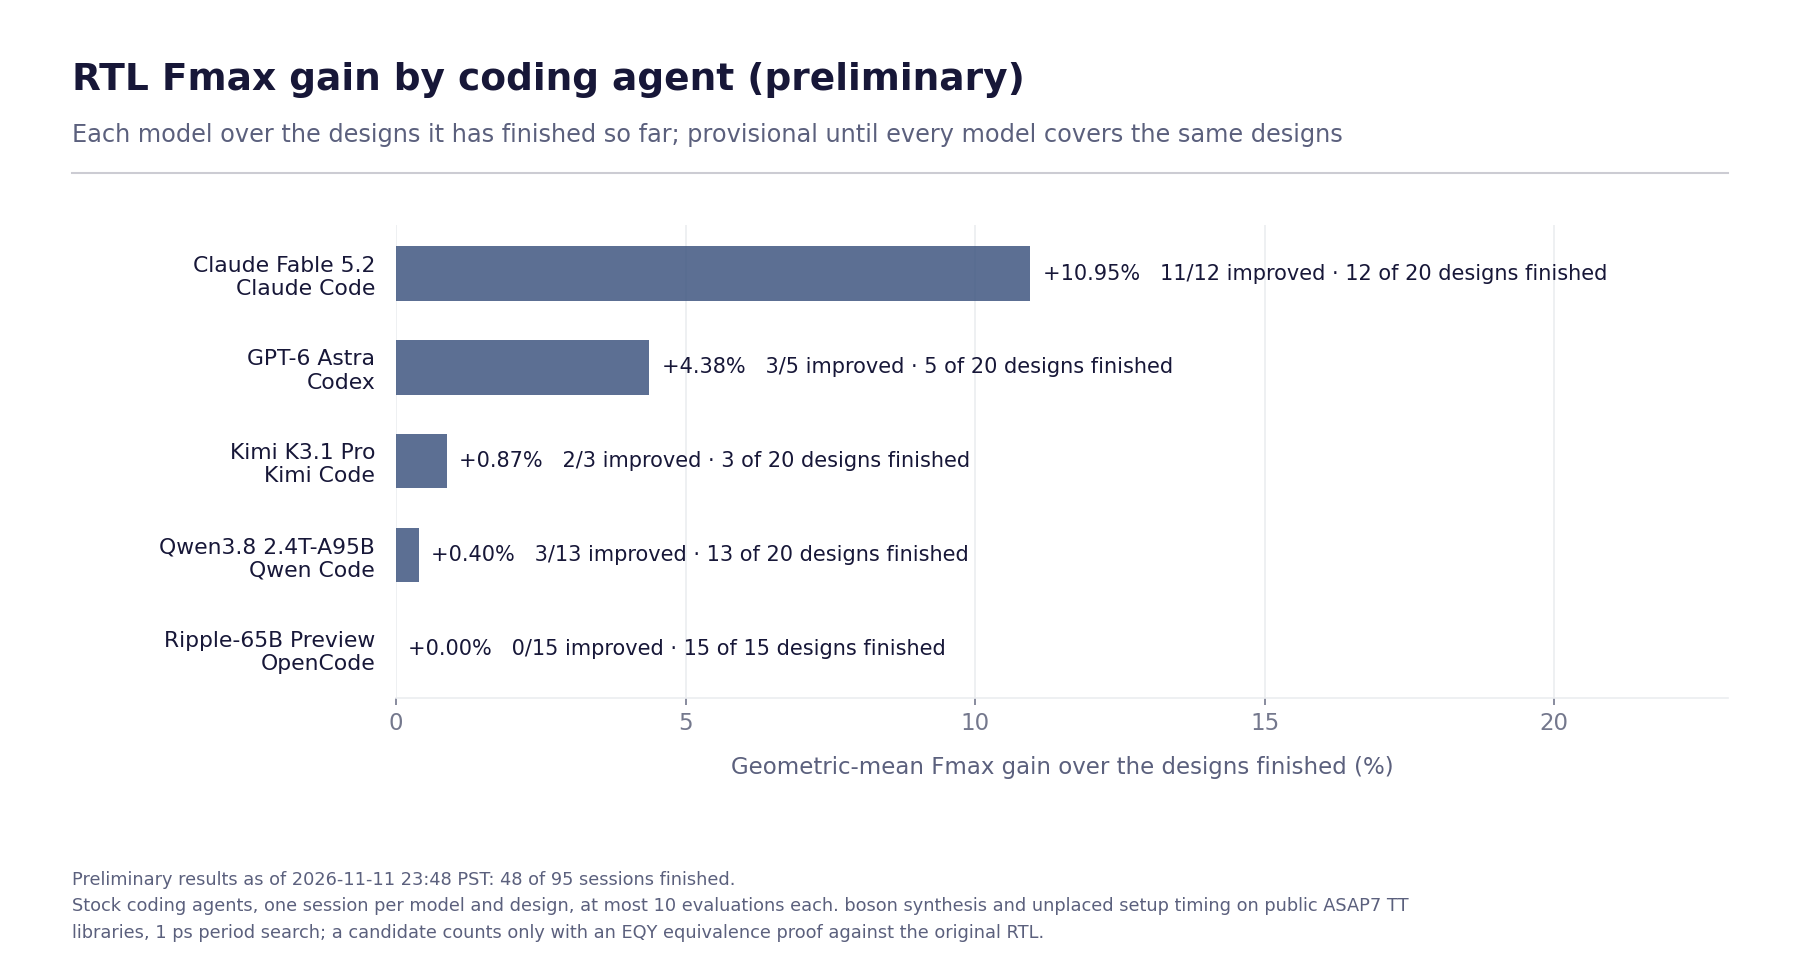
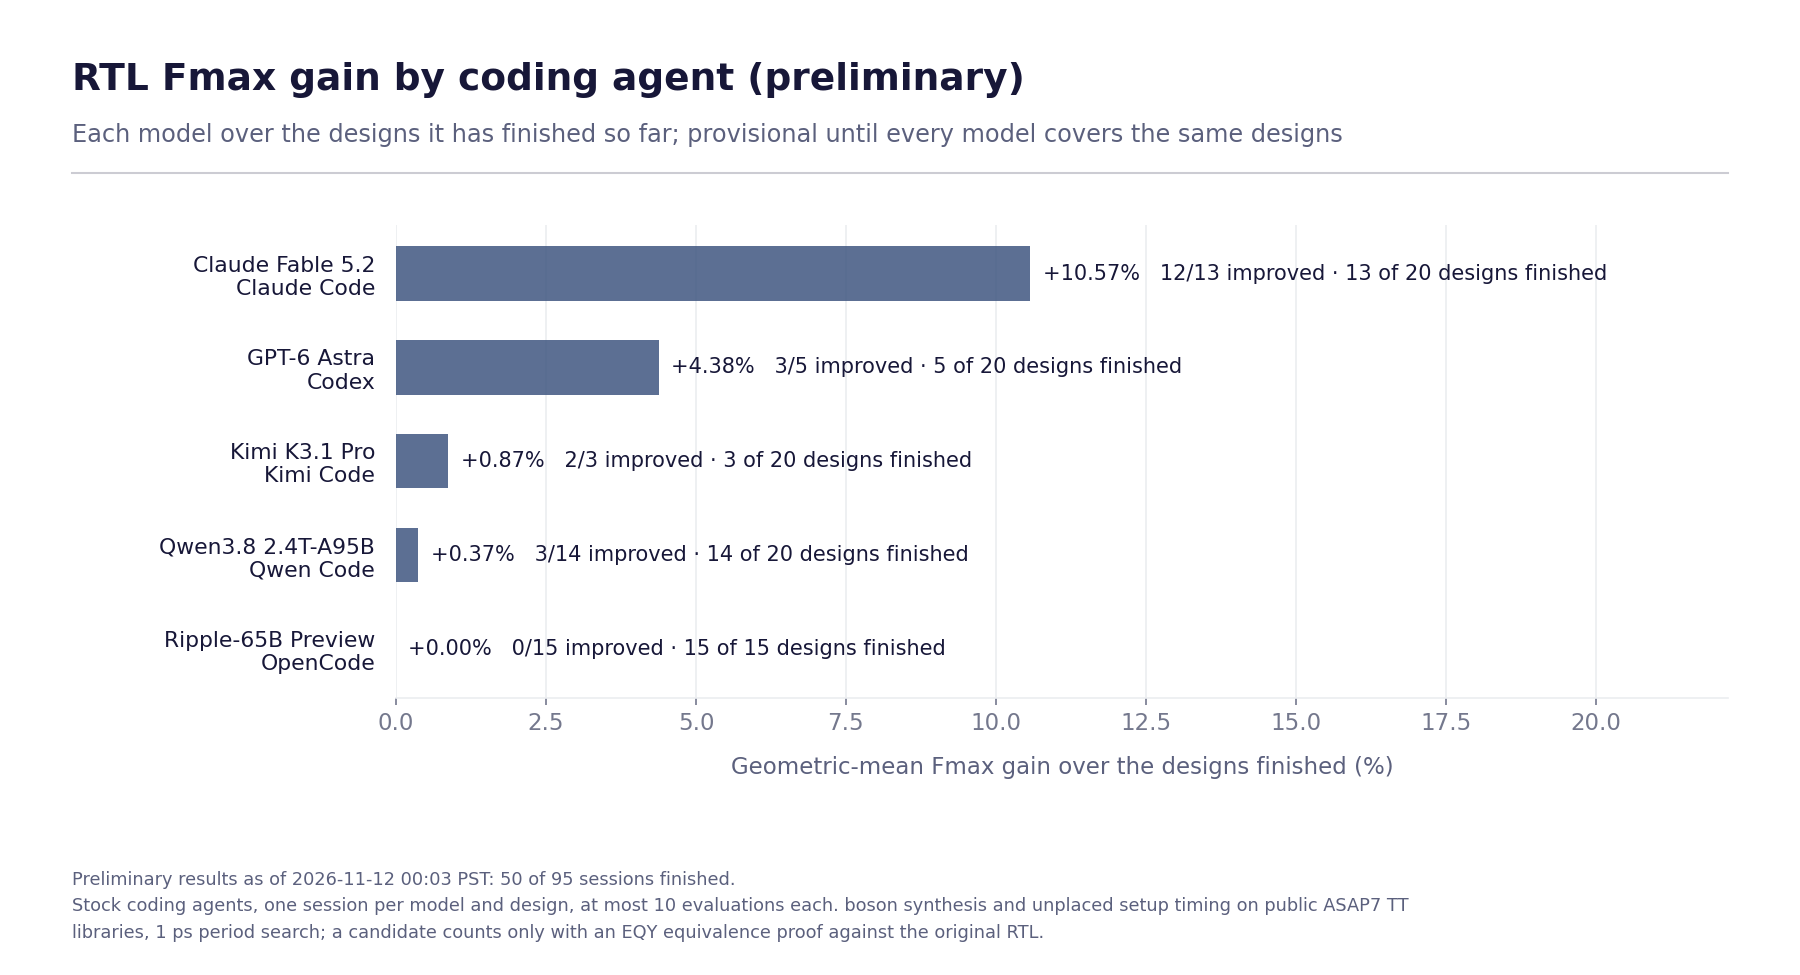
Refresh preliminary results: 50 of 95 sessions finished
Data as of 2026-11-12 00:03 PST.

diff --git a/README.md b/README.md
@@ -21,26 +21,26 @@ accepted only when it is proven equivalent and faster than the session's best so
 ## Results
 
 <!-- results:start -->
-**Status:** 48 of 95 sessions finished (5 models, 20 designs), as of 2026-11-11 23:48 PST.
+**Status:** 50 of 95 sessions finished (5 models, 20 designs), as of 2026-11-12 00:03 PST.
 
 ### Coverage
 
 | Model | Developer | Harness | Access | Sessions finished |
 |---|---|---|---|---:|
-| Claude Fable 5.2 | Anthropic | Claude Code 2.1.322 | Official CLI signed in to a subscription | 12 / 20 |
+| Claude Fable 5.2 | Anthropic | Claude Code 2.1.322 | Official CLI signed in to a subscription | 13 / 20 |
 | GPT-6 Astra | OpenAI | Codex 0.154.0 | Official CLI signed in to a subscription | 5 / 20 |
 | Kimi K3.1 Pro | Moonshot AI | Kimi Code 2.5.2 | OpenRouter, pinned to Moonshot AI's own endpoint (MXFP4), fallbacks disabled | 3 / 20 |
-| Qwen3.8 2.4T-A95B | Qwen (Alibaba) | Qwen Code 0.27.1 | OpenRouter, one pinned provider (SiliconFlow, FP8) | 13 / 20 |
+| Qwen3.8 2.4T-A95B | Qwen (Alibaba) | Qwen Code 0.27.1 | OpenRouter, one pinned provider (SiliconFlow, FP8) | 14 / 20 |
 | Ripple-65B Preview | Ricursive AI | OpenCode 1.19.5 | Self-hosted (SGLang 0.5.19, BF16) for its first 15 designs; OpenRouter pinned to PrimeIntellect (BF16) for later sessions | 15 / 15 |
 
 ### Results by model
 
 | Model | Harness | Designs finished | Fmax gain (geomean) | Designs improved | Mean evaluations | Candidates not proven |
 |---|---|---:|---:|---:|---:|---:|
-| Claude Fable 5.2 | Claude Code | 12 / 20 | +10.95% | 11 / 12 | 4.9 | 31% (18 / 59) |
+| Claude Fable 5.2 | Claude Code | 13 / 20 | +10.57% | 12 / 13 | 4.9 | 34% (22 / 64) |
 | GPT-6 Astra | Codex | 5 / 20 | +4.38% | 3 / 5 | 4.0 | 50% (10 / 20) |
 | Kimi K3.1 Pro | Kimi Code | 3 / 20 | +0.87% | 2 / 3 | 6.0 | 56% (10 / 18) |
-| Qwen3.8 2.4T-A95B | Qwen Code | 13 / 20 | +0.40% | 3 / 13 | 1.1 | 79% (11 / 14) |
+| Qwen3.8 2.4T-A95B | Qwen Code | 14 / 20 | +0.37% | 3 / 14 | 1.1 | 80% (12 / 15) |
 | Ripple-65B Preview | OpenCode | 15 / 15 | +0.00% | 0 / 15 | 0.2 | 100% (3 / 3) |
 
 Fmax gain is the geometric mean of each finished session's Fmax ratio (baseline period / best accepted period) over the designs that model has finished. Models have finished different designs, so this order is provisional, not a like-for-like ranking, until every model covers the same designs. "Candidates not proven" is the share of evaluations whose equivalence proof did not pass.
@@ -54,7 +54,7 @@ Fmax gain is the geometric mean of each finished session's Fmax ratio (baseline 
 | `cva6.default` | 1.038 | 3 | 1.016 | +2.17% | Claude Fable 5.2 |
 | `cvfpu.fp32_fma` | 1.401 | 3 | 1.070 | +30.93% | Claude Fable 5.2 |
 | `cvfpu.full` | 2.114 | 3 | 1.981 | +6.71% | Claude Fable 5.2 |
-| `ibex.full` | 0.935 | 1 | 0.935 | +0.00% | no improvement yet |
+| `ibex.full` | 0.935 | 2 | 0.935 | +0.00% | no improvement yet |
 | `ibex.minimal` | 0.716 | 1 | 0.716 | +0.00% | no improvement yet |
 | `nvdla.top` | 0.789 | 1 | 0.789 | +0.00% | no improvement yet |
 | `opope.default` | 0.857 | 1 | 0.857 | +0.00% | no improvement yet |
@@ -67,15 +67,15 @@ Fmax gain is the geometric mean of each finished session's Fmax ratio (baseline 
 | `pulp_c910.default` | 1.005 | 4 | 0.930 | +8.06% | GPT-6 Astra |
 | `spatz.default` | 2.266 | 4 | 1.868 | +21.31% | Claude Fable 5.2 |
 | `snitch_cluster.default` | 2.128 | 4 | 1.751 | +21.53% | Claude Fable 5.2 |
-| `redmule.default` | 1.636 | 3 | 1.580 | +3.54% | GPT-6 Astra |
+| `redmule.default` | 1.636 | 4 | 1.542 | +6.10% | Claude Fable 5.2 |
 | `snitch_cluster.default_latch` | 2.169 | 0 | — | — | — |
 
 ### Early observations
 
 Counts over every finished session of the models above. They describe what happened; with one session per model and design they do not establish causes or rankings.
 
-- 114 candidates evaluated: 51 accepted, 10 proven equivalent but not faster than the session's best, 52 not proven (40 with a partition EQY could not prove, 6 at the proof deadline, 6 over the proof memory budget), 1 failed to compile or measure.
-- Of 48 finished sessions, 19 ended with the agent finishing on its own, 18 ran to the time budget and 11 ended with an agent error.
+- 120 candidates evaluated: 52 accepted, 10 proven equivalent but not faster than the session's best, 57 not proven (40 with a partition EQY could not prove, 6 at the proof deadline, 11 over the proof memory budget), 1 failed to compile or measure.
+- Of 50 finished sessions, 20 ended with the agent finishing on its own, 19 ran to the time budget and 11 ended with an agent error.
 - Sessions used 2.4 of the 10 allowed evaluations on average; 1 used all 10.
 - Largest single gain so far: `cvfpu.fp32_fma` by Claude Fable 5.2, 1.401 ns to 1.070 ns (+30.93% Fmax).
 - No finished session has improved `ibex.full`, `ibex.minimal`, `nvdla.top`, `opope.default`, `serial_link.default`, `spi_host.default` yet.
